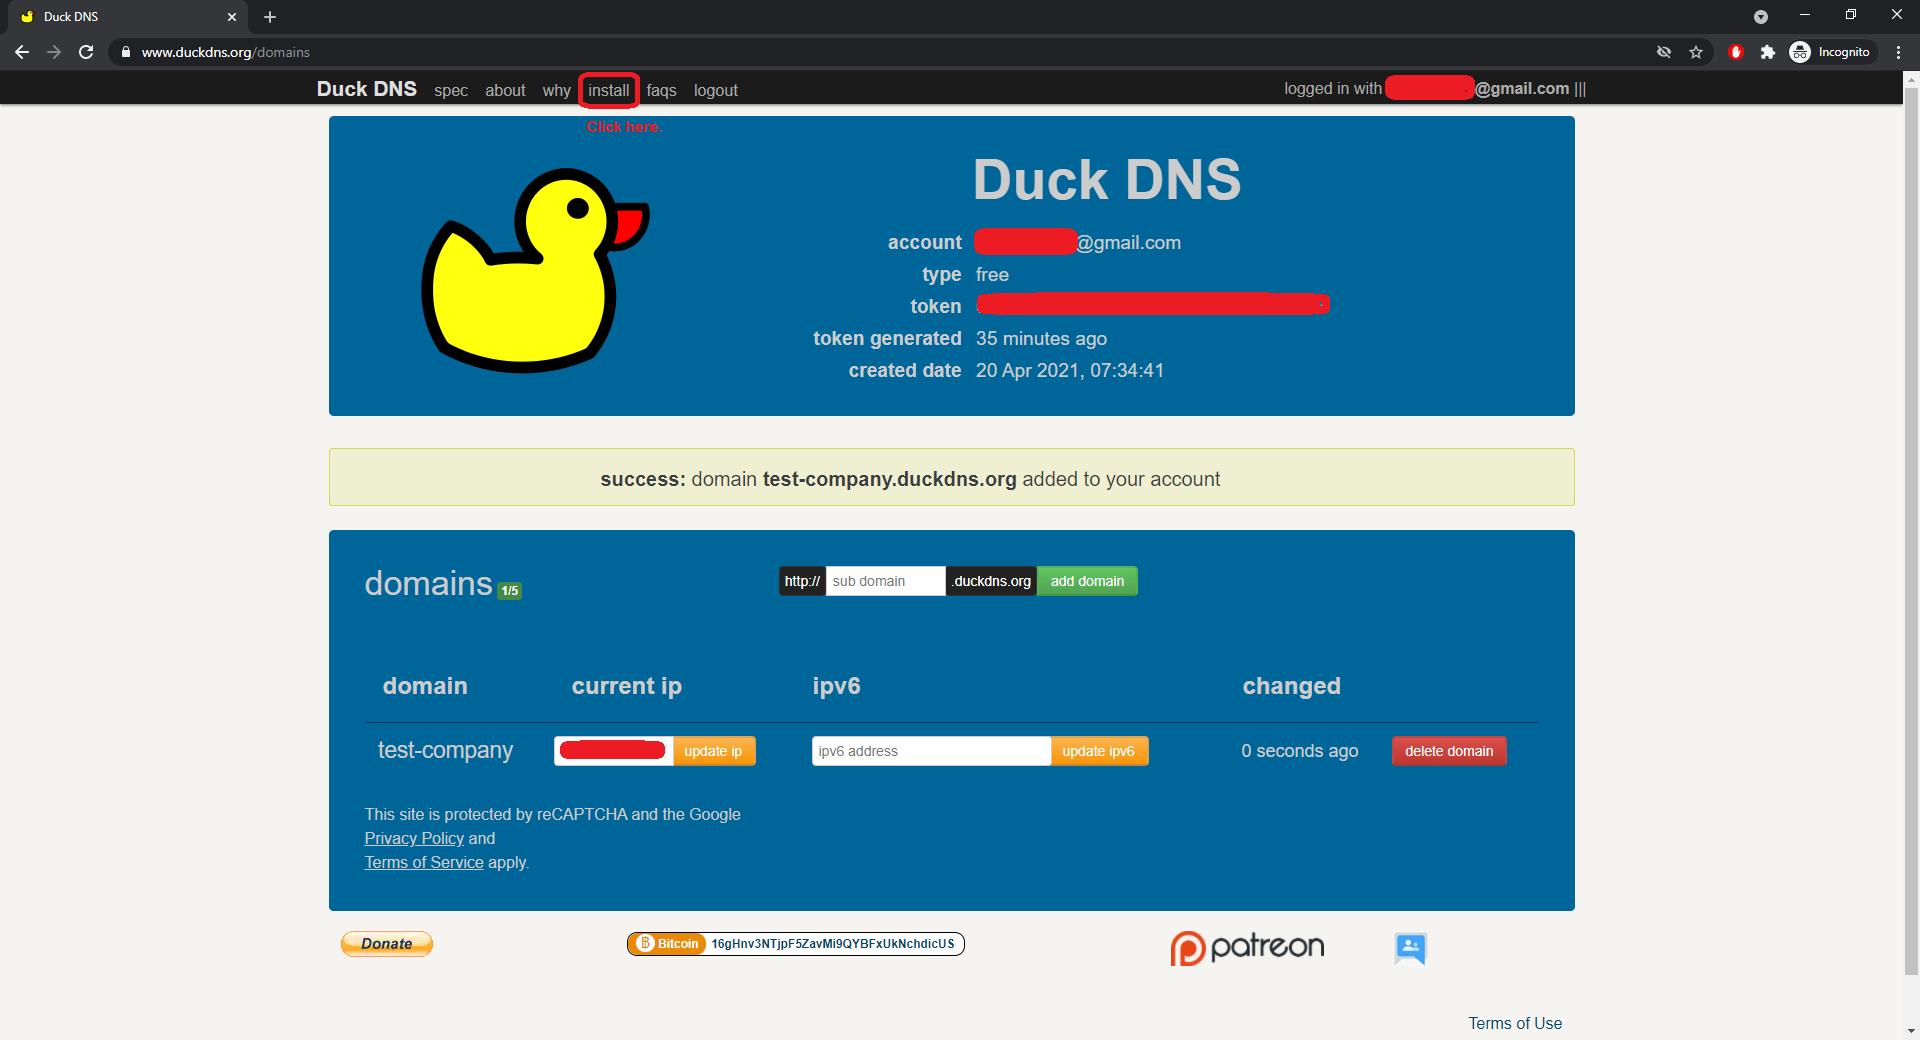
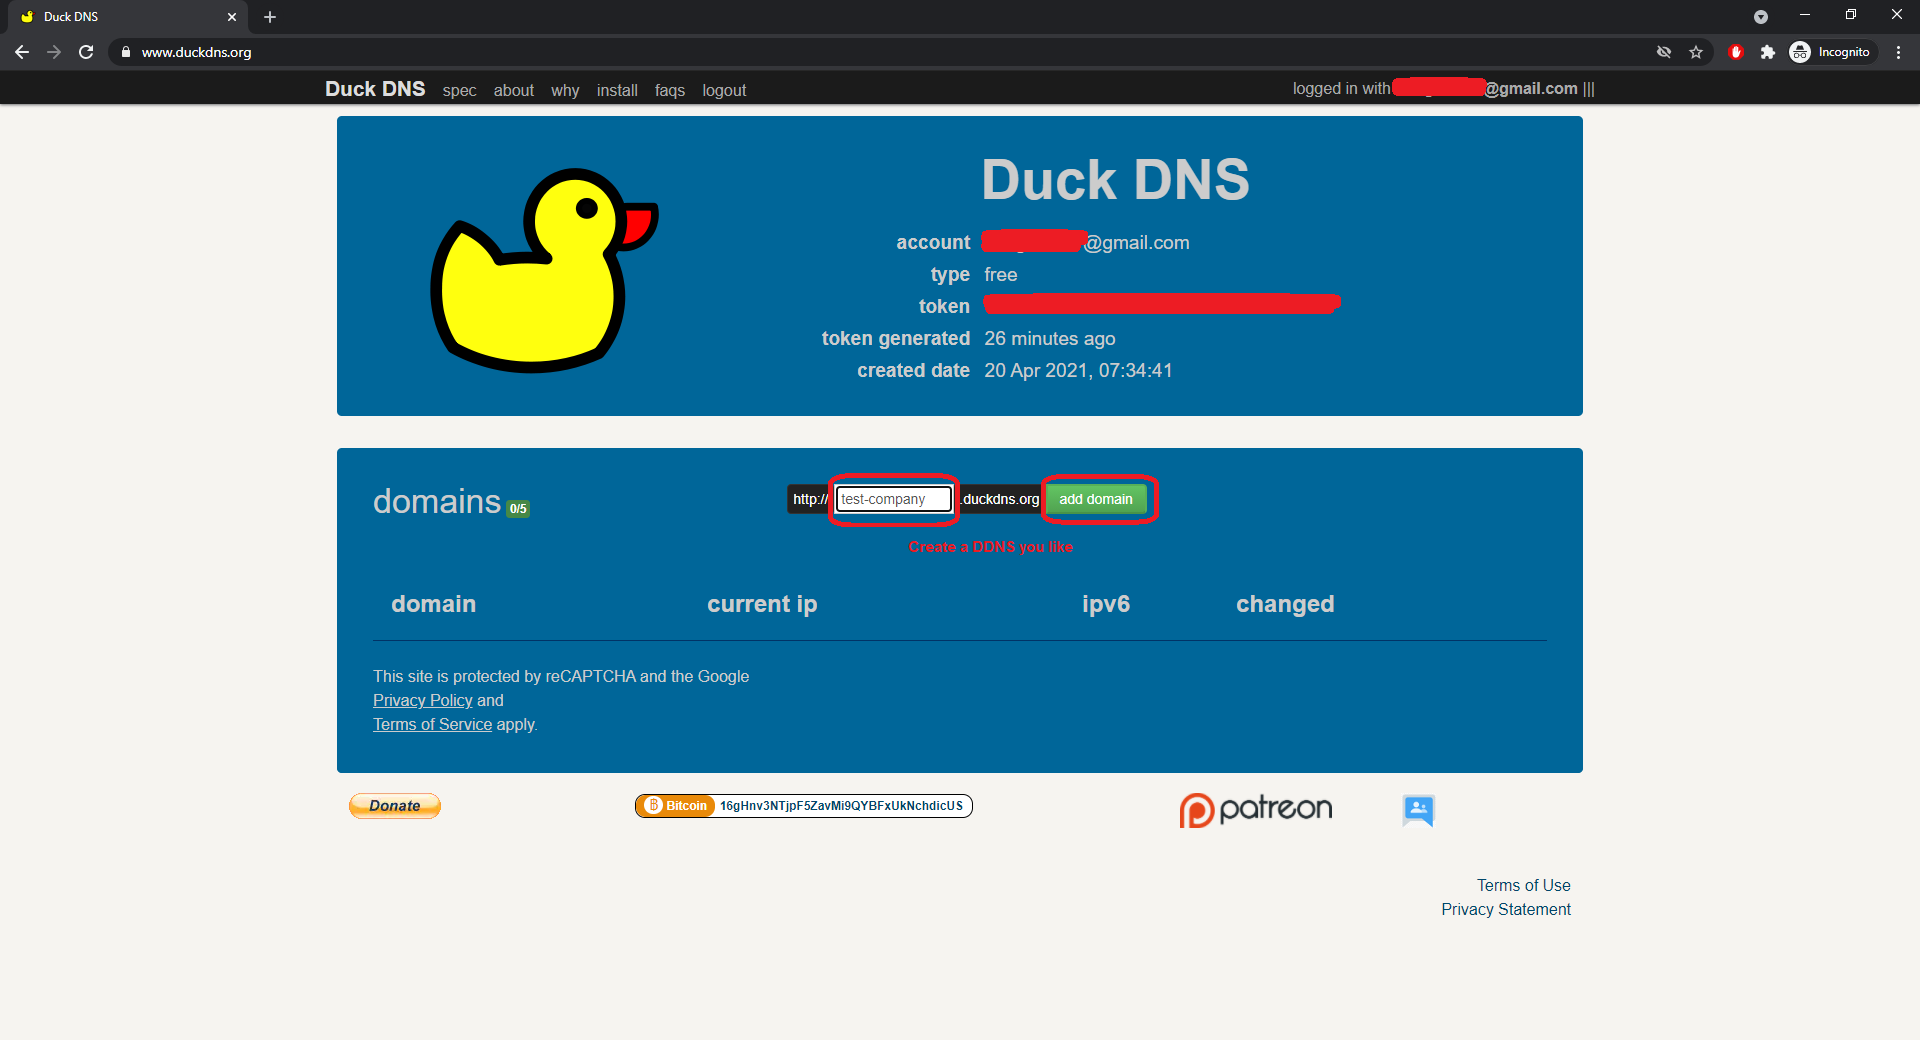
[General] Update duckdns guide
- add recaptcha step
- add jre install step

diff --git a/docs/private-cloud/requirements/ddns.md b/docs/private-cloud/requirements/ddns.md
@@ -13,13 +13,16 @@ Get a free DDNS from Duckdns if you don't have one.
    <Image path="/img/private-cloud/duck-1.png" />
 3. Next, sign in using your gmail.
    <Image path="/img/private-cloud/duck-2.png" />
-4. Once you have sign in, you will reach the following page.
-5. Create a DDNS that you like.
+4. [*Optional*] Duckdns website is protected by *cloudflare*, sometimes you will see the **reCaptcha** screen. Click on the **orange** color button and verify to go to the next screen.
    <Image path="/img/private-cloud/duck-3.png" />
-6. You will end up with a screen similar to the one below. Next, click on **install**.
+5. Create a DDNS you wish (example as shown below).
    <Image path="/img/private-cloud/duck-4.png" />
-7. Select `windows-gui`, and choose the DDNS you created just now.
+6. You will end up with a screen similar to the one below. Next, click on **install**.
    <Image path="/img/private-cloud/duck-5.png" />
-8. A guide will be shown similar to the screen below. Follow the steps.
+7. Select `windows-gui`, and choose the DDNS you created just now.
    <Image path="/img/private-cloud/duck-6.png" />
-9. Lastly, write the ddns you just created in the [checklist](https://docs.google.com/spreadsheets/d/1iqCgQMDHGcTYtt0HSgAsEAPTED1eltnQj8ywJdwYYx0/edit?usp=sharing) prepared. (Ex. `test-company.duckdns.org`)
+8. A guide will be shown similar to the screen below. Follow the steps.
+   <Image path="/img/private-cloud/duck-7.png" />
+9. [*Optional*] If the server doesn't have `java` installed, `duckdns` will prompt automatically. Click **OK** and proceed with `java` download and install.
+   <Image path="/img/private-cloud/duck-8.png" />
+10. Lastly, write the ddns you just created in the [checklist](https://docs.google.com/spreadsheets/d/1iqCgQMDHGcTYtt0HSgAsEAPTED1eltnQj8ywJdwYYx0/edit?usp=sharing) prepared. (Ex. `test-company.duckdns.org`)
